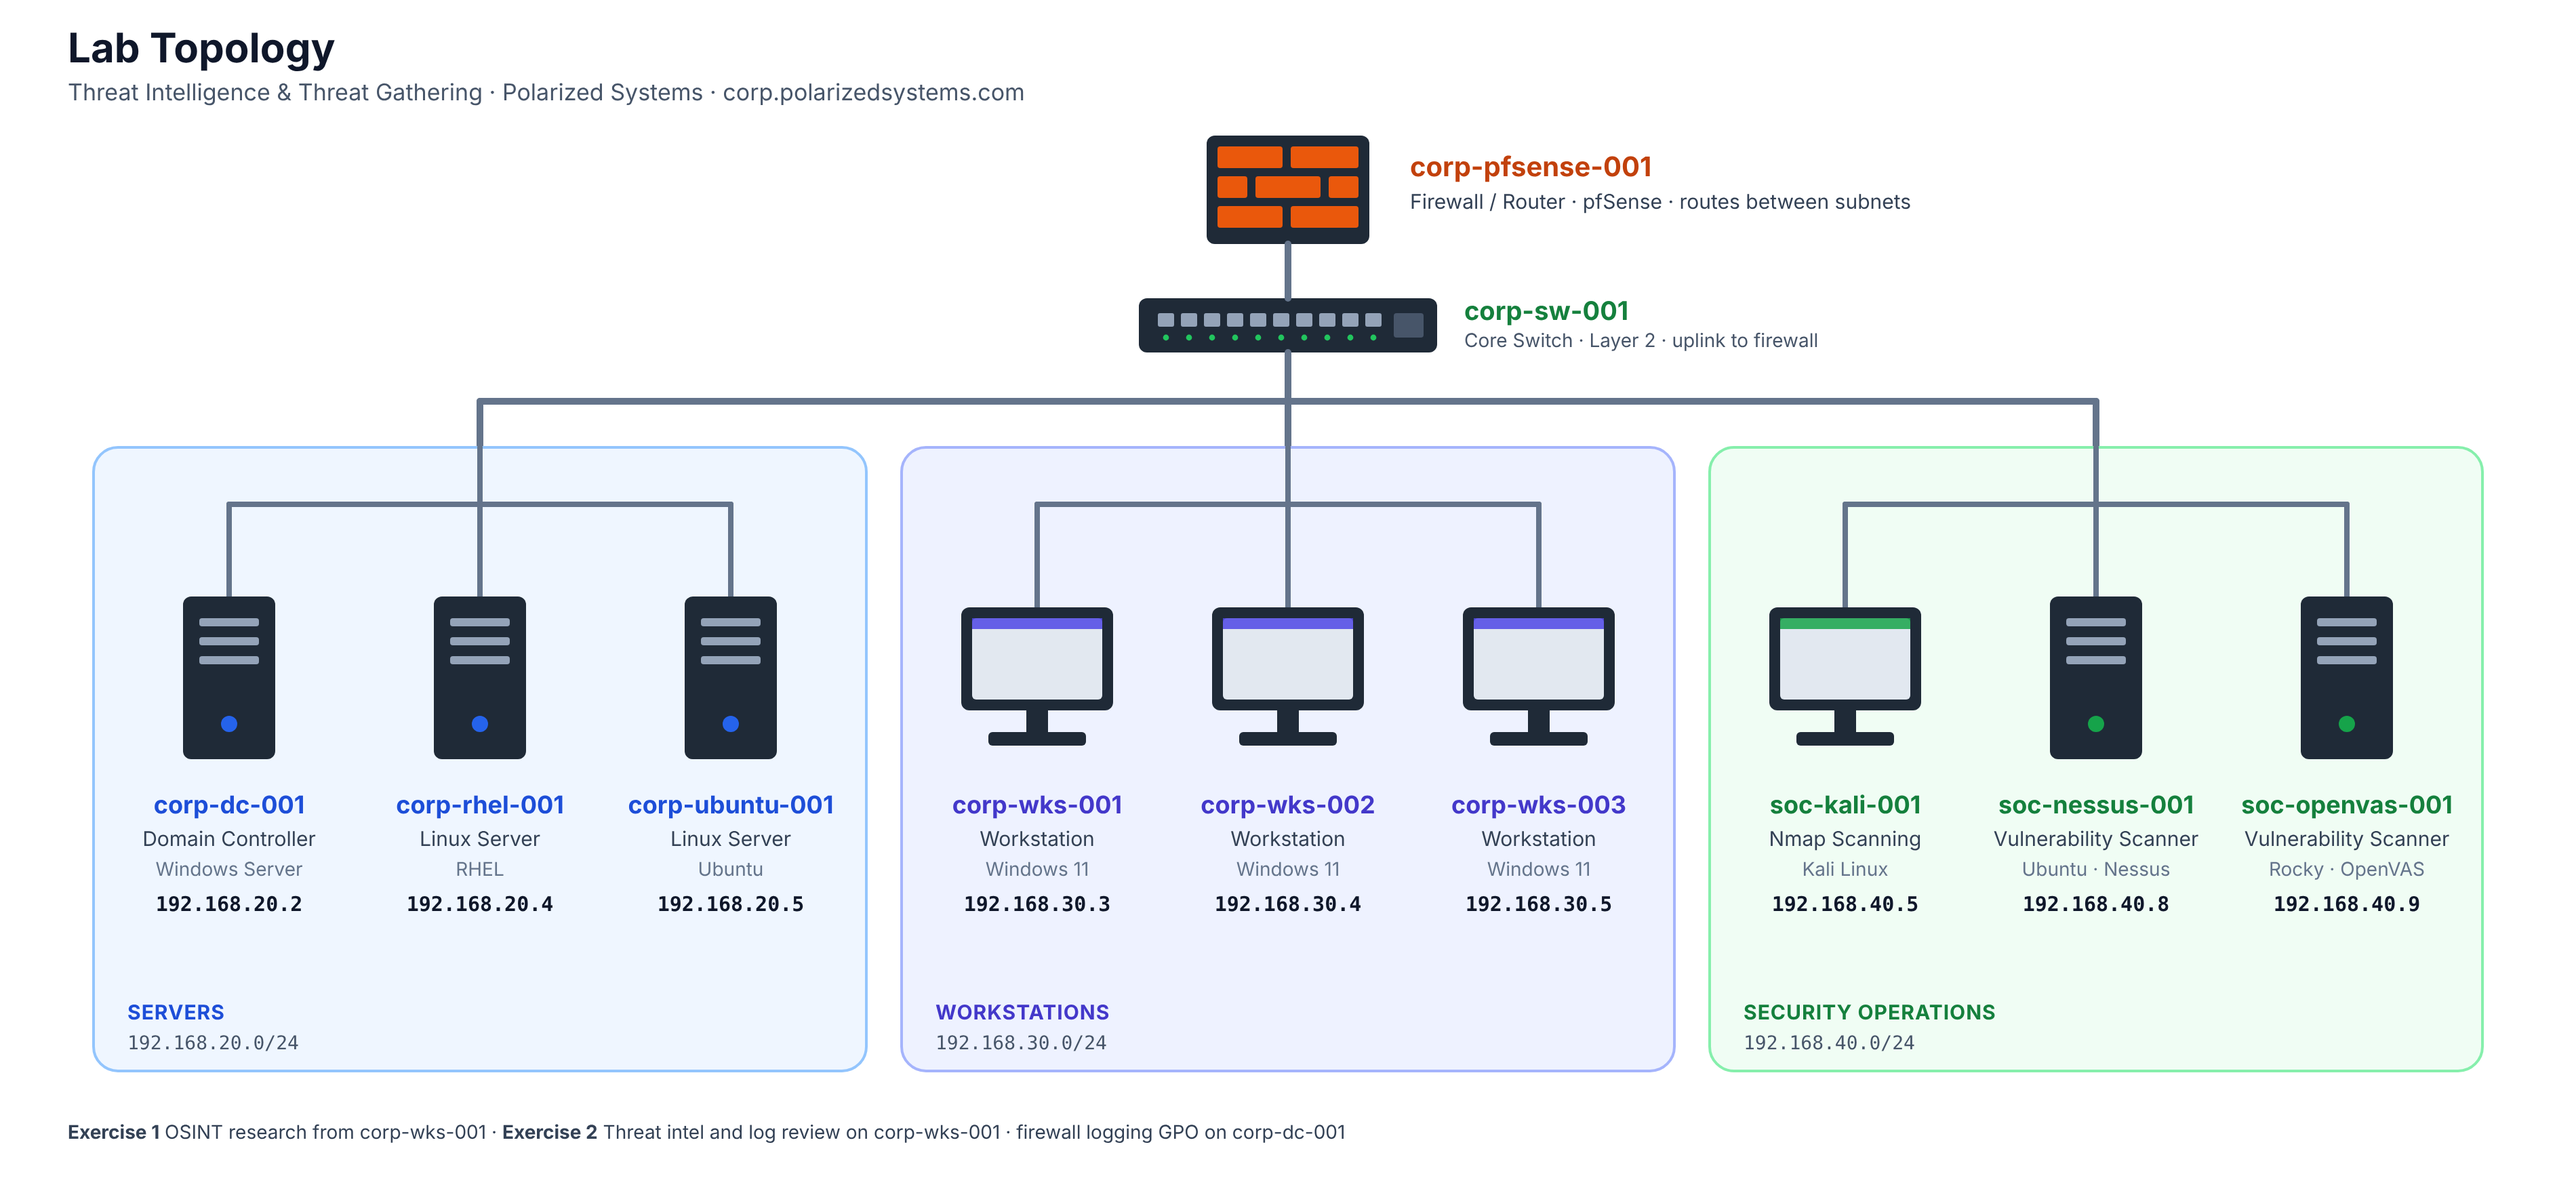
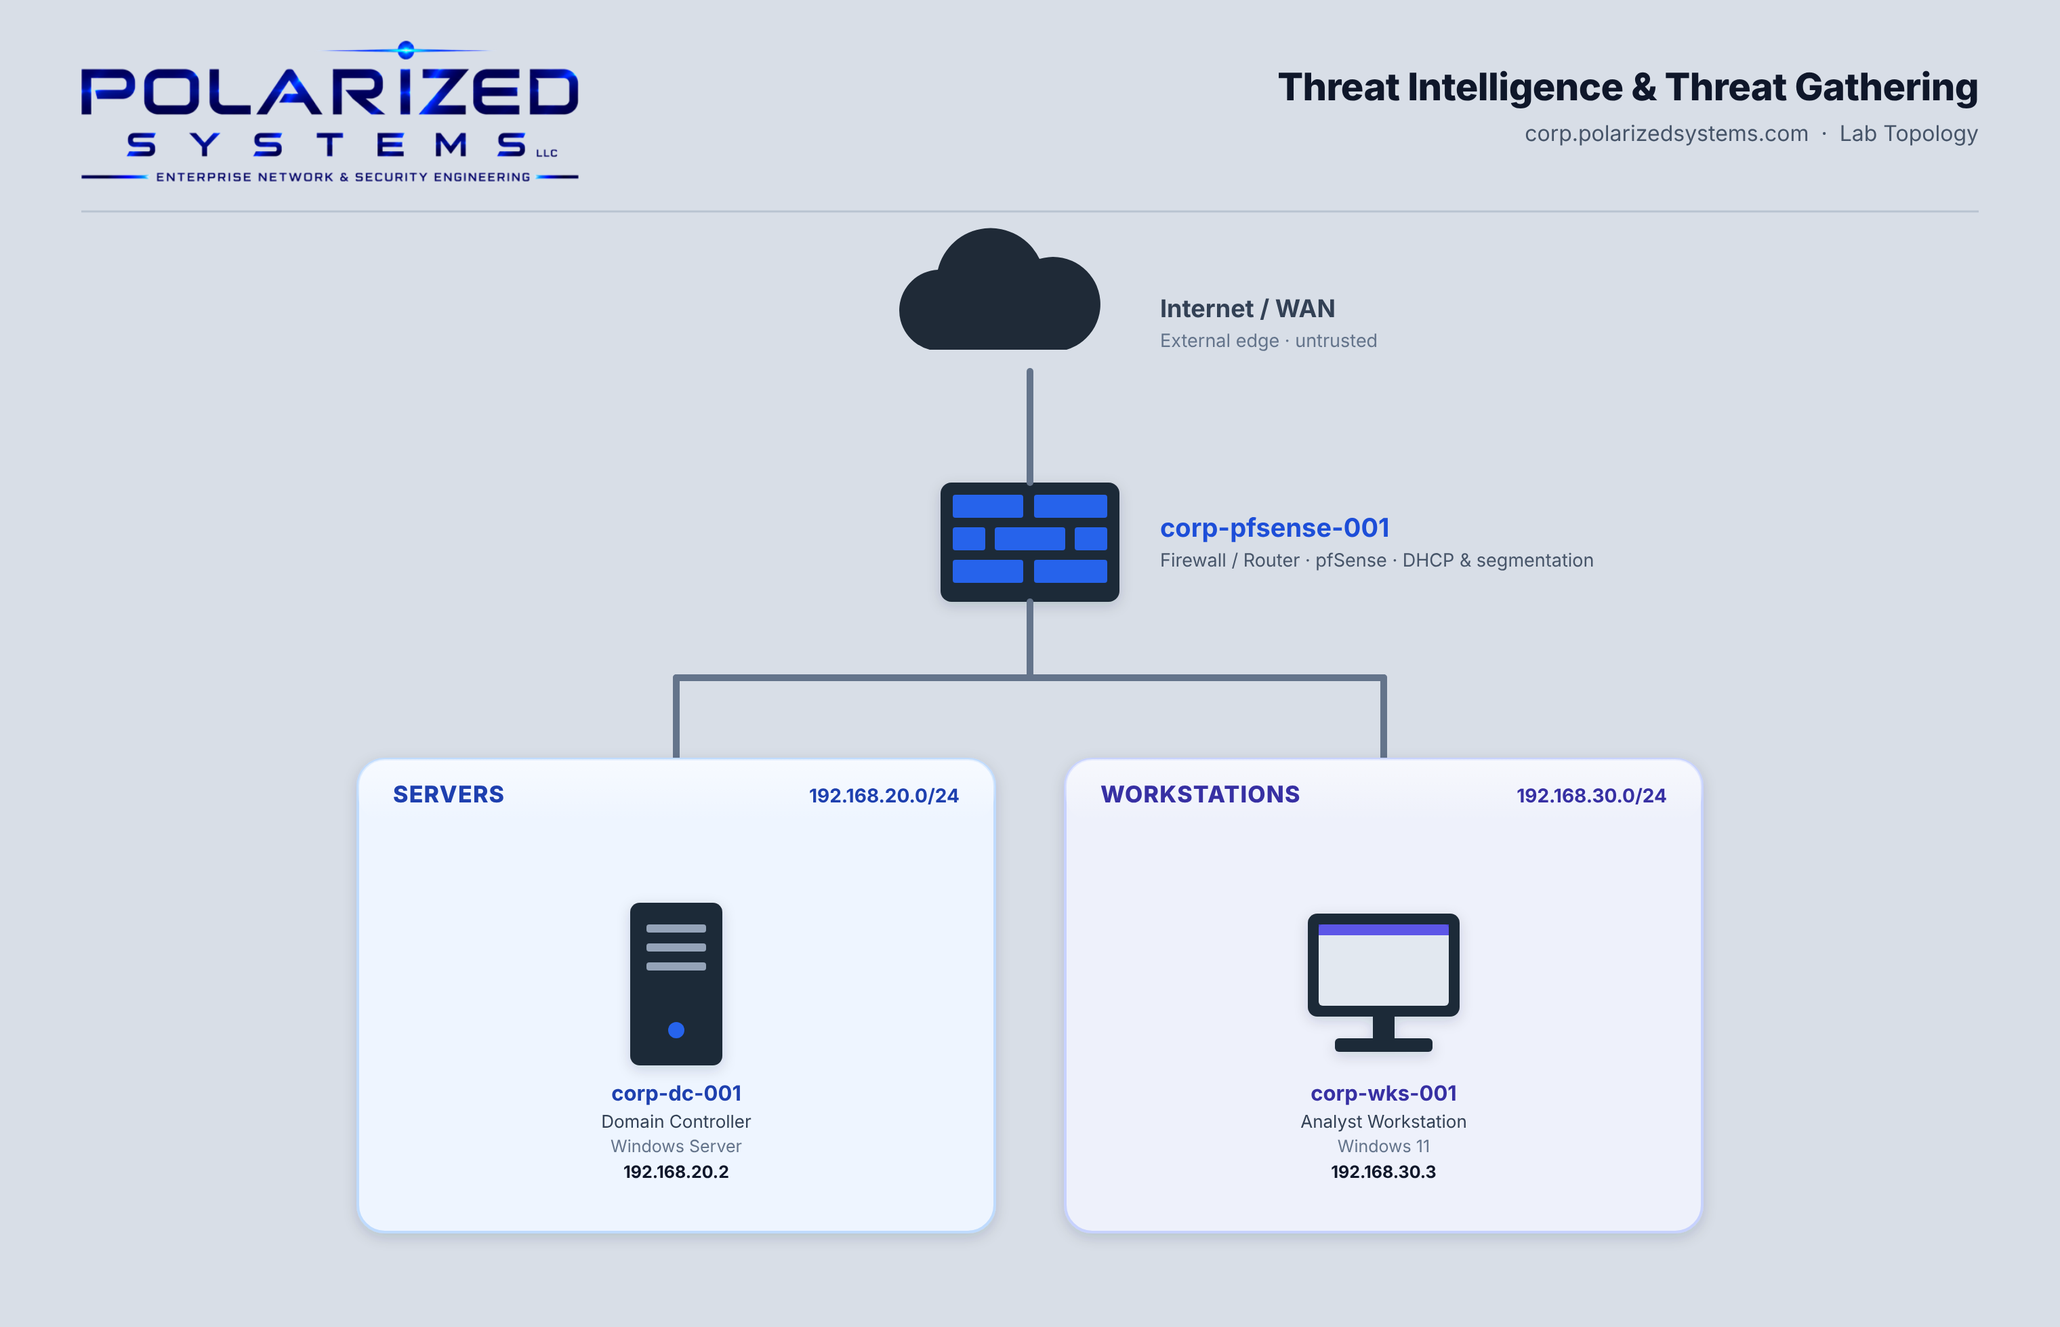
Replace core switch with pfSense-direct topology; add per-lab diagrams
- Remove the corp-sw-001 "core switch" from the topology (diagrams and
  Lab Environment tables); pfSense now connects directly to the
  segmented subnets, matching the real lab.
- Regenerate the enterprise hero and give each lab a topology showing
  only the hosts that lab actually uses.
- Enlarge the brand logo and use a softer grey background.
- Normalize host IPs: corp-win-svr-001 .20.7, soc-nessus-001 .40.6,
  soc-openvas-001 .40.4 (tables, exercise pages, and diagrams).

diff --git a/05-centralized-logging-and-endpoint-hardening/README.md b/05-centralized-logging-and-endpoint-hardening/README.md
@@ -45,10 +45,9 @@ By the end of this lab, I was able to:
 | Hostname | IP Address | Operating System | Role in this lab |
 |----------|-----------|------------------|------------------|
 | `corp-pfsense-001` | — | pfSense | Firewall / router between subnets |
-| `corp-sw-001` | — | — | Core switch |
 | `soc-splunk-002` | 192.168.40.10 | Rocky Linux 10 | Splunk Enterprise indexer / SIEM (Ex 1) |
 | `corp-wks-001` | 192.168.30.3 | Windows 11 | Universal Forwarder log source (Ex 1) · MFA logon test (Ex 3) |
-| `corp-win-svr-001` | 192.168.20.6 | Windows Server | Member server — BitLocker data volume (Ex 2) |
+| `corp-win-svr-001` | 192.168.20.7 | Windows Server | Member server — BitLocker data volume (Ex 2) |
 | `corp-dc-001` | 192.168.20.2 | Windows Server | Domain Controller — Active Directory / MFA (Ex 3) |
 
 ---

diff --git a/03-identifying-and-analyzing-malicious-activity/README.md b/03-identifying-and-analyzing-malicious-activity/README.md
@@ -45,9 +45,8 @@ By the end of this lab, I was able to:
 | Hostname | IP Address | Operating System | Role in this lab |
 |----------|-----------|------------------|------------------|
 | `corp-pfsense-001` | — | pfSense | Firewall / router between subnets |
-| `corp-sw-001` | — | — | Core switch |
 | `corp-dc-001` | 192.168.20.2 | Windows Server | Domain Controller — auditing and event analysis (Ex 2) |
-| `corp-win-svr-001` | 192.168.20.6 | Windows Server | Member server — Windows resource monitoring (Ex 1) |
+| `corp-win-svr-001` | 192.168.20.7 | Windows Server | Member server — Windows resource monitoring (Ex 1) |
 | `corp-rhel-001` | 192.168.20.4 | Rocky Linux 10 | Linux resource monitoring target (Ex 1) |
 
 ---

diff --git a/02-techniques-to-determine-malicious-activity/README.md b/02-techniques-to-determine-malicious-activity/README.md
@@ -46,7 +46,6 @@ By the end of this lab, I was able to:
 | Hostname | IP Address | Operating System | Role in this lab |
 |----------|-----------|------------------|------------------|
 | `corp-pfsense-001` | — | pfSense | Firewall / router between subnets |
-| `corp-sw-001` | — | — | Core switch |
 | `corp-dc-001` | 192.168.20.2 | Windows Server | Domain Controller — audit policy, PowerShell hunting, SSH attack source (Ex 2) |
 | `corp-rhel-001` | 192.168.20.4 | Rocky Linux 10 | Linux login-monitoring target (Ex 2) |
 | `corp-wks-001` | 192.168.30.3 | Windows 11 | Analyst workstation — remote log collection (Ex 1) |

diff --git a/06-enterprise-siem-and-endpoint-monitoring-with-wazuh/README.md b/06-enterprise-siem-and-endpoint-monitoring-with-wazuh/README.md
@@ -44,7 +44,6 @@ By the end of this lab, I was able to:
 | Hostname | IP Address | Operating System | Role in this lab |
 |----------|-----------|------------------|------------------|
 | `corp-pfsense-001` | — | pfSense | Firewall / router between subnets |
-| `corp-sw-001` | — | — | Core switch |
 | `soc-wazuh-002` | 192.168.40.11 | Ubuntu 22.04 LTS | Wazuh all-in-one SIEM (Ex 1) |
 | `corp-win-svr-001` | 192.168.20.7 | Windows Server 2025 | Windows agent endpoint (Ex 2) |
 | `corp-ubuntu-001` | 192.168.20.5 | Ubuntu 22.04 LTS | Linux agent endpoint (Ex 3) |

diff --git a/04-tools-for-identifying-malicious-activity/README.md b/04-tools-for-identifying-malicious-activity/README.md
@@ -44,7 +44,6 @@ By the end of this lab, I was able to:
 | Hostname | IP Address | Operating System | Role in this lab |
 |----------|-----------|------------------|------------------|
 | `corp-pfsense-001` | — | pfSense | Firewall / router between subnets |
-| `corp-sw-001` | — | — | Core switch |
 | `soc-kali-001` | 192.168.40.5 | Kali Linux | Packet capture and analysis — Wireshark, tcpdump (Ex 1) |
 | `corp-wks-001` | 192.168.30.3 | Windows 11 | Traffic generation and threat-intel validation (Ex 1 + 2) |
 

diff --git a/01-threat-intelligence-and-threat-gathering/README.md b/01-threat-intelligence-and-threat-gathering/README.md
@@ -42,7 +42,6 @@ By the end of this lab, I was able to:
 | Hostname | IP Address | Operating System | Role |
 |----------|-----------|------------------|------|
 | `corp-pfsense-001` | — | pfSense | Firewall / router between subnets |
-| `corp-sw-001` | — | — | Core switch |
 | `corp-dc-001` | 192.168.20.2 | Windows Server | Domain Controller (Group Policy) |
 | `corp-wks-001` | 192.168.30.3 | Windows 11 | OSINT research, threat intelligence and log analysis |
 

diff --git a/03-identifying-and-analyzing-malicious-activity/exercise-1-analyze-resource-utilization/README.md b/03-identifying-and-analyzing-malicious-activity/exercise-1-analyze-resource-utilization/README.md
@@ -12,7 +12,7 @@ Resource utilization is one of the first places malicious activity shows up. A c
 
 ## Devices
 
-- **corp-win-svr-001** – Windows Server – member server – Process Explorer (192.168.20.6)
+- **corp-win-svr-001** – Windows Server – member server – Process Explorer (192.168.20.7)
 - **corp-rhel-001** – Rocky Linux 10 – `top` / `htop` (192.168.20.4)
 
 ---

diff --git a/05-centralized-logging-and-endpoint-hardening/exercise-2-encrypting-sensitive-data/README.md b/05-centralized-logging-and-endpoint-hardening/exercise-2-encrypting-sensitive-data/README.md
@@ -14,7 +14,7 @@ In this exercise I installed the **BitLocker Drive Encryption** feature on a Win
 
 ## Device
 
-- **corp-win-svr-001** – Windows Server – member server hosting the sensitive data volume (192.168.20.6)
+- **corp-win-svr-001** – Windows Server – member server hosting the sensitive data volume (192.168.20.7)
 
 ---
 
